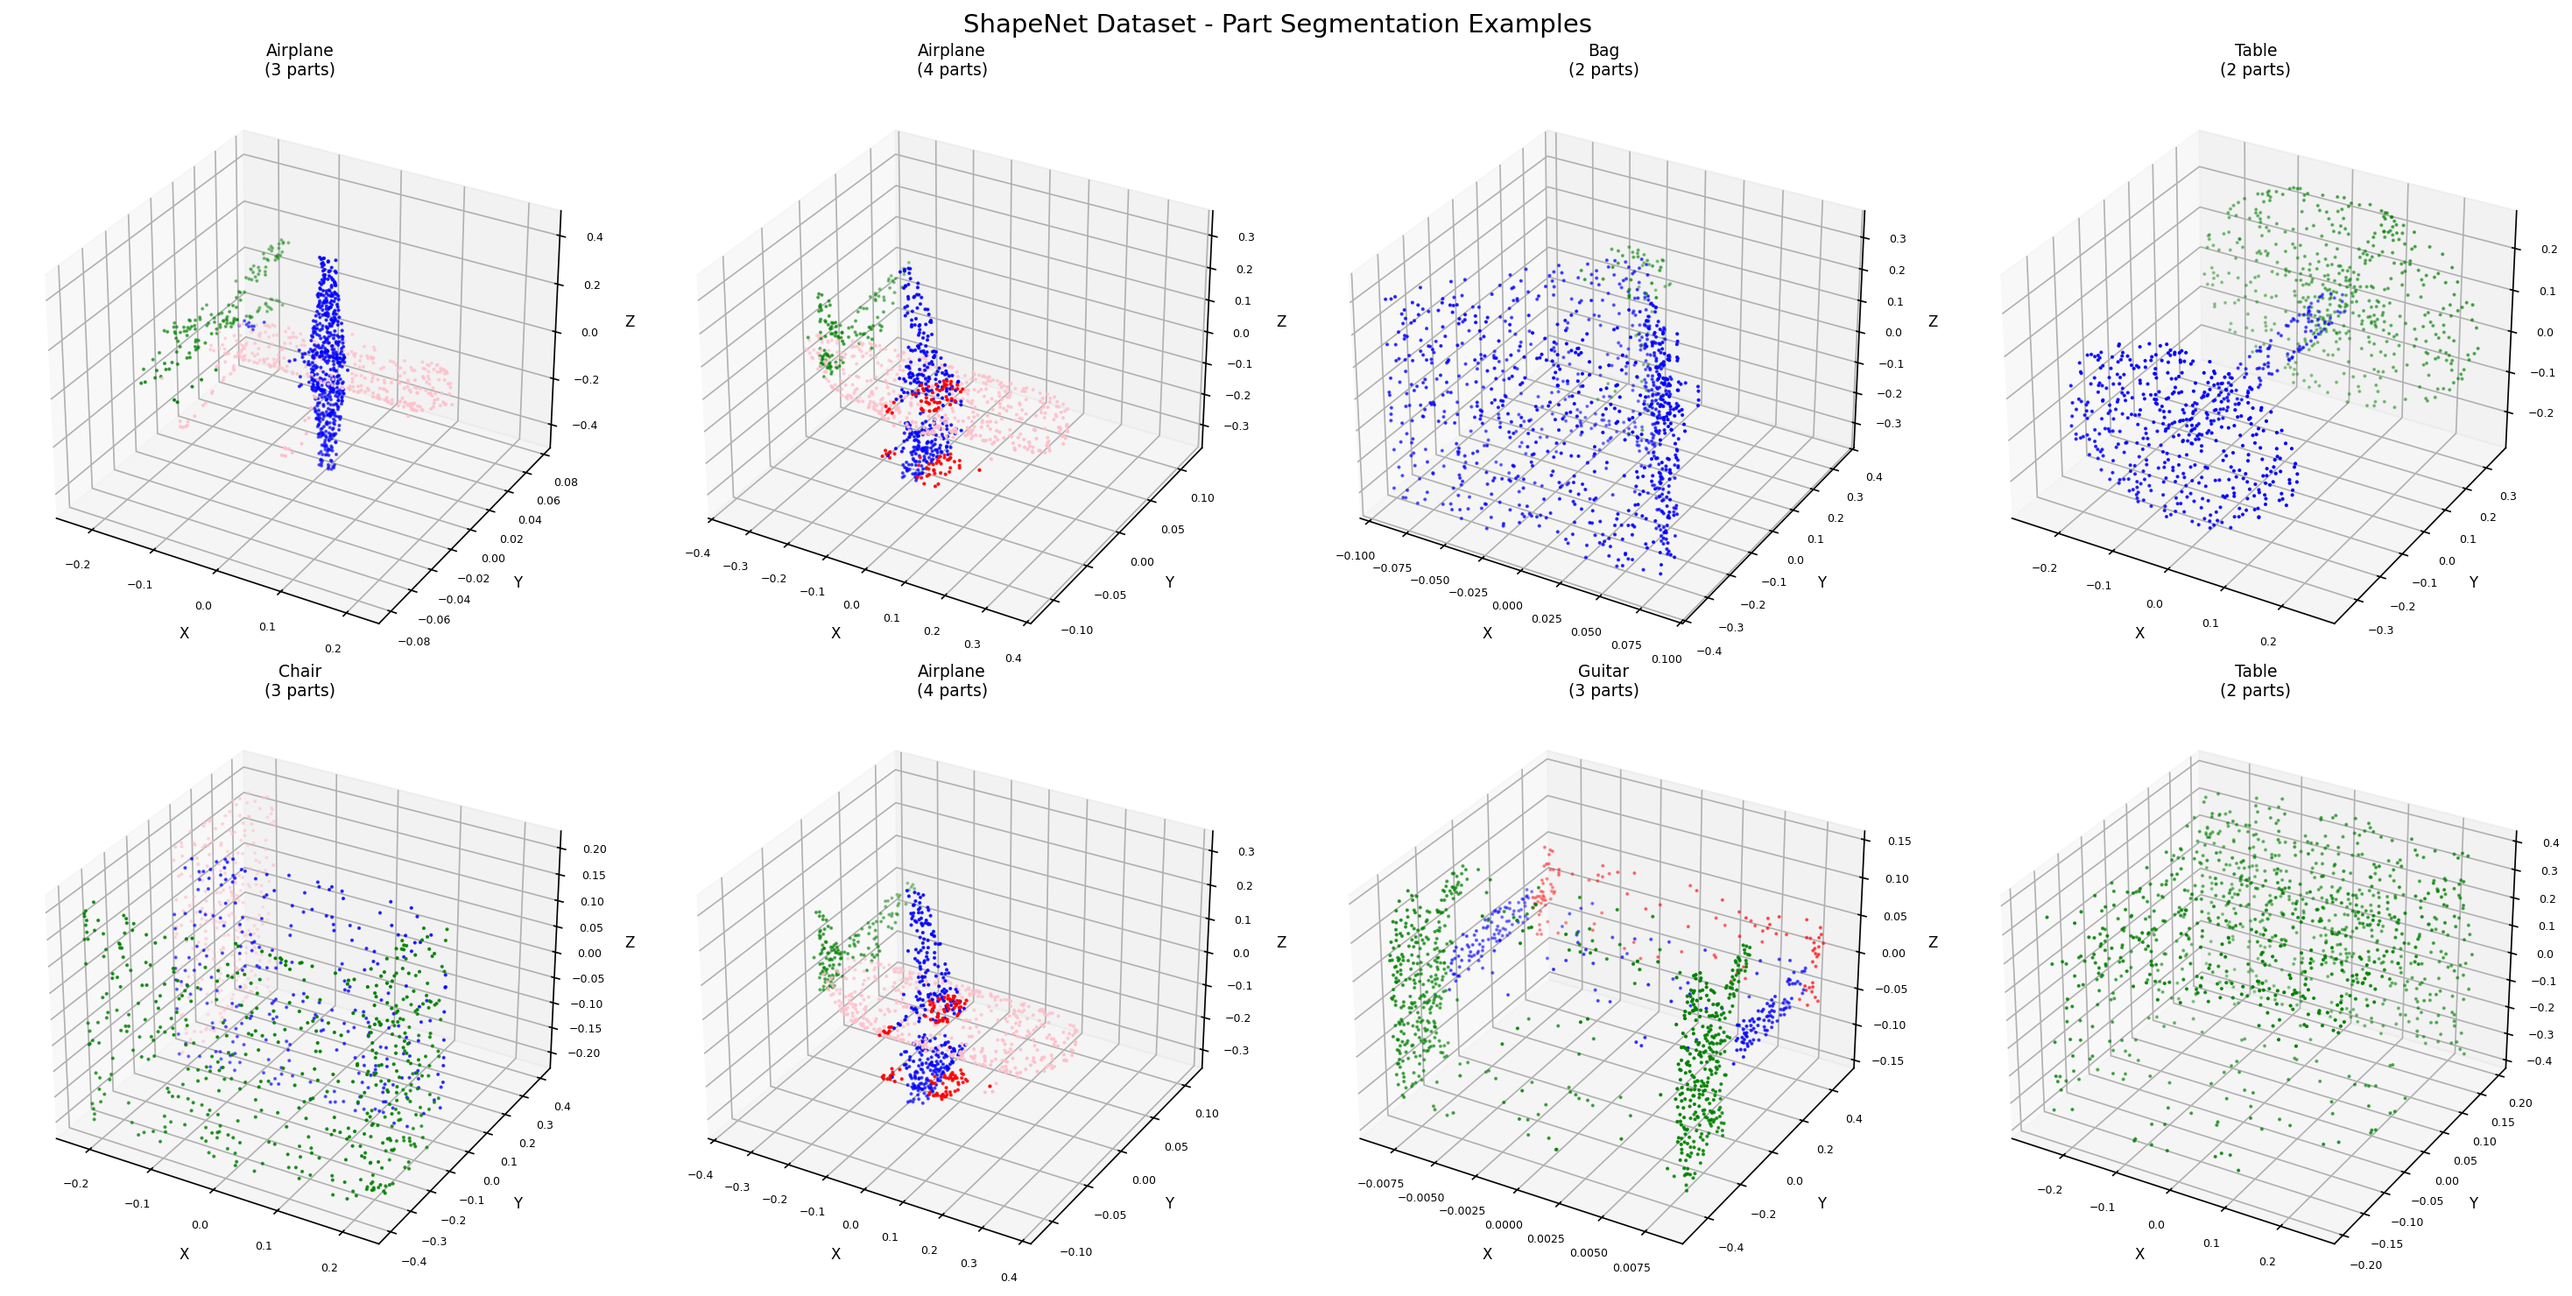
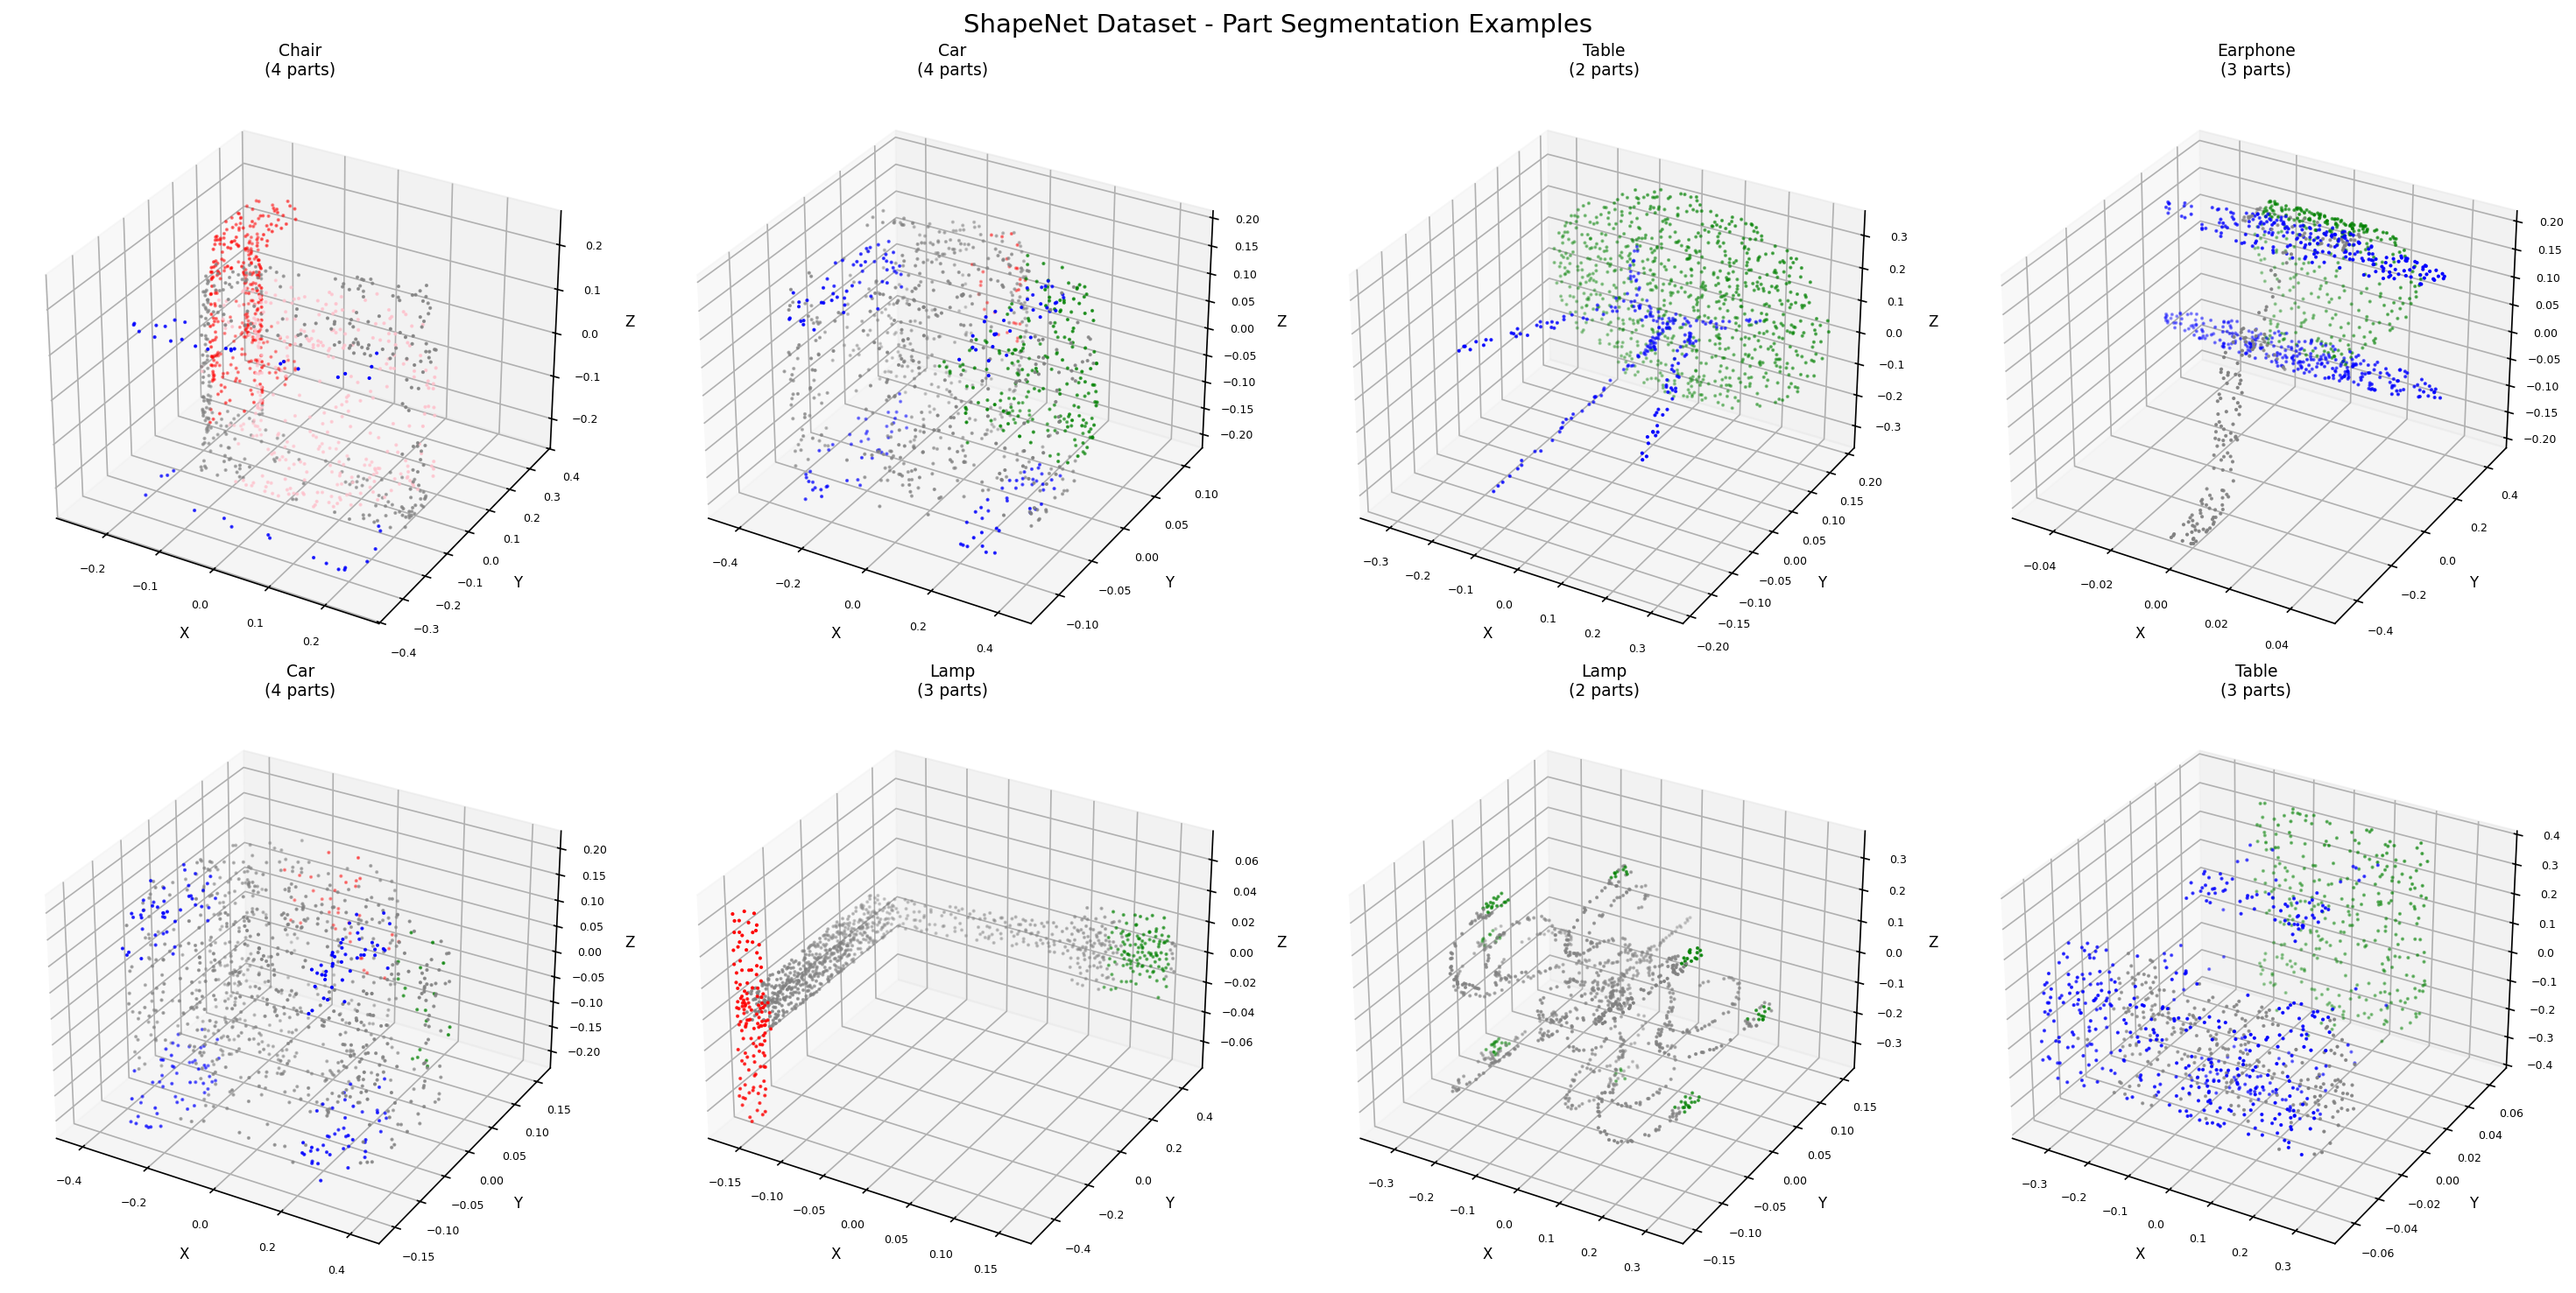
[fix] treat unlabeled points as separate parts

diff --git a/src/main_shapenet.py b/src/main_shapenet.py
@@ -43,18 +43,24 @@ def create_global_label_mapping(metadata):
     for class_idx, class_name in enumerate(sorted(metadata.keys())):
         part_names = metadata[class_name]["lables"]  # Note: typo in metadata
         
+        # Add "unlabeled" as the first part (index -1 maps to this)
+        class_part_to_global[(class_idx, -1)] = global_label
+        global_to_class_part[global_label] = (class_idx, "unlabeled")
+        global_label += 1
+        
         # Map each part index of this class to a global label
         for local_part_idx, part_name in enumerate(part_names):
             class_part_to_global[(class_idx, local_part_idx)] = global_label
             global_to_class_part[global_label] = (class_idx, part_name)
             global_label += 1
     
-    print(f"\nCreated global label mapping with {global_label} total part classes")
+    print(f"\nCreated global label mapping with {global_label} total part classes (including 'unlabeled' for each object class)")
     print("Class-Part to Global Label mapping:")
     for class_idx, class_name in enumerate(sorted(metadata.keys())):
         part_names = metadata[class_name]["lables"]
+        unlabeled_label = class_part_to_global[(class_idx, -1)]
         global_labels = [class_part_to_global[(class_idx, idx)] for idx in range(len(part_names))]
-        print(f"  {class_name}: parts {part_names} -> global labels {global_labels}")
+        print(f"  {class_name}: unlabeled -> {unlabeled_label}, parts {part_names} -> global labels {global_labels}")
     
     return class_part_to_global, global_to_class_part, global_label
 
@@ -120,19 +126,25 @@ def visualize_shapenet_batch(pointcloud, labels, obj_class, output_dir, metadata
             z = pointcloud[i][:, 2].numpy()
         
         # Map labels to colors from metadata
-        # Labels are 1-indexed, so subtract 1 to get the correct index
-        color = [part_colors[int(label)] for label in labels[i]]
+        # Unlabeled points (label == -1) get grey color, others get colors from metadata
+        color = ['#808080' if int(label) == -1 else part_colors[int(label)] for label in labels[i]]
         
         fig = plt.figure(figsize=(10, 8))
         ax = fig.add_subplot(111, projection="3d")
         ax.scatter(x, y, z, c=color, s=1)
         
         # Create legend based on unique labels actually present in this sample
-        # Labels are 1-indexed, so subtract 1 to get metadata index
         legend_elements = []
-        for i, part_name in enumerate(part_labels):
+        # Add unlabeled to legend if present
+        if -1 in [int(label) for label in labels[i]]:
             legend_elements.append(plt.Line2D([0], [0], marker='o', color='w', 
-                                     markerfacecolor=part_colors[i], 
+                                     markerfacecolor='#808080', 
+                                     markersize=8,
+                                     label='unlabeled'))
+        # Add part labels from metadata
+        for j, part_name in enumerate(part_labels):
+            legend_elements.append(plt.Line2D([0], [0], marker='o', color='w', 
+                                     markerfacecolor=part_colors[j], 
                                      markersize=8,
                                      label=part_name))
         ax.legend(handles=legend_elements, loc='upper right', fontsize=8)
@@ -187,8 +199,8 @@ def visualize_shapenet_grid(pointcloud, labels, obj_class, output_path, metadata
             z = pointcloud[i][:, 2].numpy()
         
         # Map labels to colors from metadata
-        # Labels are 1-indexed, so subtract 1 to get the correct index
-        color = [part_colors[int(label)] for label in labels[i]]
+        # Unlabeled points (label == -1) get grey color, others get colors from metadata
+        color = ['#808080' if int(label) == -1 else part_colors[int(label)] for label in labels[i]]
         
         ax = fig.add_subplot(n_rows, n_cols, i + 1, projection='3d')
         ax.scatter(x, y, z, c=color, s=1)

diff --git a/src/utils/shapenet_dataset.py b/src/utils/shapenet_dataset.py
@@ -213,24 +213,24 @@ class shapeNetDataset(torch.utils.data.Dataset):
                 added_labels = []
 
             #get a random point    
-            index = random.randrange(len(point_cloud))    
+            index = random.randrange(len(interpolated_pc))    
 
             #continue if the value has been selected, to interpolate along all the points
             if(index in interpolated_index):
                 continue
             
             #start the interpolation loop
-            for i in range(len(point_cloud)):
+            for i in range(len(interpolated_pc)):
                 #avoid the same point
                 if i == index:
                     continue
                 
-                if(self.nearPoint(point_cloud[index], point_cloud[i], labels[index], labels[i])):
+                if(self.nearPoint(interpolated_pc[index], interpolated_pc[i], interpolated_labels[index], interpolated_labels[i])):
 
                     #this will interpolate in all the nearest points not only one
-                    point = [point_cloud[index][0] + (self._xy_th/2.0), point_cloud[index][1] + (self._xy_th/2.0), point_cloud[index][2] + (self._z_th/2.0)]
+                    point = [interpolated_pc[index][0] + (self._xy_th/2.0), interpolated_pc[index][1] + (self._xy_th/2.0), interpolated_pc[index][2] + (self._z_th/2.0)]
                     interpolated_points.append(point)
-                    added_labels.append(labels[i])
+                    added_labels.append(interpolated_labels[i])
                     added_points += 1
 
                     #adds the index only once, but interpolates for all the closer points
@@ -284,6 +284,9 @@ class shapeNetDataset(torch.utils.data.Dataset):
         target_pc = point_cloud
         target_labels = labels
         
+        # Don't filter out unlabeled points - keep them with label -1
+        # which will map to the "unlabeled" class in the global label mapping
+        
         if(len(point_cloud) > self._target_points):
             #downsample
             target_pc, target_labels = self.downsamplePointCloud(point_cloud, labels)
@@ -292,21 +295,16 @@ class shapeNetDataset(torch.utils.data.Dataset):
             target_pc, target_labels = self.interpolatePointCloud(point_cloud, labels)        
         
         # Convert local part labels to global labels using the mapping
+        # This now includes -1 -> "unlabeled" mapping for each class
         if self._class_part_to_global is not None:
-            global_labels = []
-            for local_label in target_labels:
-                if local_label == -1:
-                    # Keep unlabeled points as -1
-                    global_labels.append(-1)
-                else:
-                    # Map valid labels to global labels
-                    global_labels.append(self._class_part_to_global[(item["class"], local_label)])
+            global_labels = [self._class_part_to_global[(item["class"], local_label)] 
+                           for local_label in target_labels]
         else:
             global_labels = target_labels
         
         target_pc = np.array(target_pc, dtype=np.float32)
         target_pc = target_pc.transpose(1, 0) 
-        return target_pc, item["class"], np.array(target_labels), np.array(global_labels, dtype=np.int64)    
+        return target_pc, item["class"], np.array(target_labels, dtype=np.int64), np.array(global_labels, dtype=np.int64)    
         
         
 
